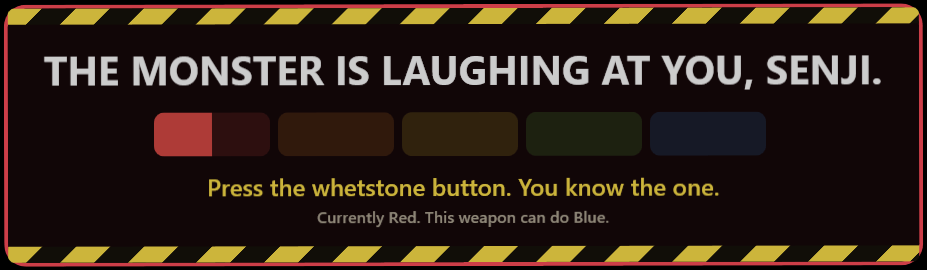
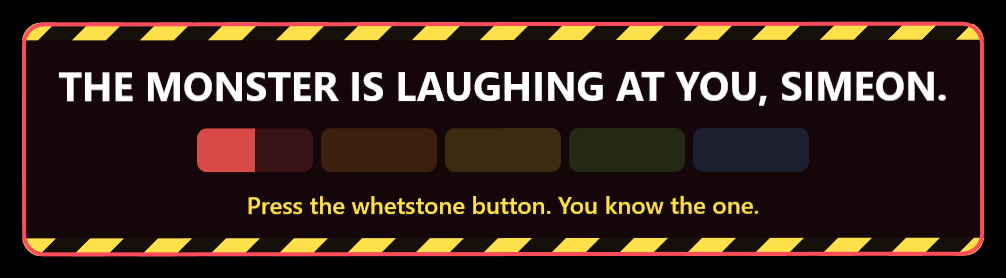
Sharpen reminder: tape under the border, centred, no detail line, Simeon in the text

diff --git a/SmartHunter/Ui/Windows/SharpenAlertWindow.xaml b/SmartHunter/Ui/Windows/SharpenAlertWindow.xaml
@@ -35,31 +35,35 @@
             </TransformGroup>
         </Grid.RenderTransform>
 
-        <Border x:Name="Card" CornerRadius="20" Background="#F2160709" BorderBrush="{StaticResource B_Danger}" BorderThickness="4" MinWidth="820" ClipToBounds="True" behaviors:RoundClip.Radius="20">
-            <StackPanel>
-                <Rectangle Height="16" Fill="{StaticResource B_Tape}" />
-                <StackPanel Margin="36 18 36 18">
-                    <controls:SharpText Text="{Binding Headline}" Style="{StaticResource T_Body}" FontSize="40" FontWeight="Bold" Foreground="White" HorizontalAlignment="Center" />
+        <Grid x:Name="Card" MinWidth="820">
+            <!--The tape runs to the card's edge under a rounded clip, and the red outline is drawn on top of it: a border
+                around the clipped content left the tape's square corners poking out past the border's inner curve-->
+            <Border CornerRadius="20" Background="#F2160709" behaviors:RoundClip.Radius="20">
+                <StackPanel>
+                    <Rectangle Height="18" Fill="{StaticResource B_Tape}" />
+                    <StackPanel Margin="36 18 36 18">
+                        <controls:SharpText Text="{Binding Headline}" TextAlignment="Center" Style="{StaticResource T_Body}" FontSize="40" FontWeight="Bold" Foreground="White" />
 
-                    <ItemsControl ItemsSource="{Binding Bar.Pips}" HorizontalAlignment="Center" Margin="0 16 0 0">
-                        <ItemsControl.ItemsPanel>
-                            <ItemsPanelTemplate><StackPanel Orientation="Horizontal" /></ItemsPanelTemplate>
-                        </ItemsControl.ItemsPanel>
-                        <ItemsControl.ItemTemplate>
-                            <DataTemplate>
-                                <Grid Width="116" Height="44" Margin="0 0 8 0" behaviors:RoundClip.Radius="10">
-                                    <Rectangle Fill="{Binding Brush}" Opacity="0.18" />
-                                    <Rectangle Fill="{Binding Brush}" behaviors:SmoothBar.Fraction="{Binding Fill}" />
-                                </Grid>
-                            </DataTemplate>
-                        </ItemsControl.ItemTemplate>
-                    </ItemsControl>
+                        <ItemsControl ItemsSource="{Binding Bar.Pips}" HorizontalAlignment="Center" Margin="0 16 0 0">
+                            <ItemsControl.ItemsPanel>
+                                <ItemsPanelTemplate><StackPanel Orientation="Horizontal" /></ItemsPanelTemplate>
+                            </ItemsControl.ItemsPanel>
+                            <ItemsControl.ItemTemplate>
+                                <DataTemplate>
+                                    <Grid Width="116" Height="44" Margin="4 0 4 0" behaviors:RoundClip.Radius="10">
+                                        <Rectangle Fill="{Binding Brush}" Opacity="0.18" />
+                                        <Rectangle Fill="{Binding Brush}" behaviors:SmoothBar.Fraction="{Binding Fill}" />
+                                    </Grid>
+                                </DataTemplate>
+                            </ItemsControl.ItemTemplate>
+                        </ItemsControl>
 
-                    <controls:SharpText Text="{Binding Escalated}" Style="{StaticResource T_Body}" FontSize="24" FontWeight="SemiBold" Foreground="#FFE24A" HorizontalAlignment="Center" Margin="0 14 0 0" />
-                    <controls:SharpText Text="{Binding Detail}" Style="{StaticResource T_Muted}" FontSize="16" HorizontalAlignment="Center" Margin="0 4 0 0" />
+                        <controls:SharpText Text="{Binding Escalated}" TextAlignment="Center" Style="{StaticResource T_Body}" FontSize="24" FontWeight="SemiBold" Foreground="#FFE24A" Margin="0 16 0 0" />
+                    </StackPanel>
+                    <Rectangle Height="18" Fill="{StaticResource B_Tape}" />
                 </StackPanel>
-                <Rectangle Height="16" Fill="{StaticResource B_Tape}" />
-            </StackPanel>
-        </Border>
+            </Border>
+            <Border CornerRadius="20" BorderBrush="{StaticResource B_Danger}" BorderThickness="4" IsHitTestVisible="False" />
+        </Grid>
     </Grid>
 </Window>

diff --git a/SmartHunter/Game/Data/SharpenAlert.cs b/SmartHunter/Game/Data/SharpenAlert.cs
@@ -3,8 +3,8 @@ using SmartHunter.Core.Data;
 
 namespace SmartHunter.Game.Data
 {
-    // A friend's weapon kept running at red and orange mid-hunt, and the small bar was never enough. For the hunter named
-    // Senji, sharpness that is far below what the weapon reaches puts a huge bar and a roast at the top of the screen
+    // A friend's weapon kept running at red and orange mid-hunt, and the small bar was never enough. For the hunter whose
+    // character is named Senji (the roasts call him Simeon, his real name), sharpness that is far below what the weapon reaches puts a huge bar and a roast at the top of the screen
     // (SharpenAlertWindow) until he sharpens. It's a gag: impossible to miss, impossible to sit through, and it gets
     // meaner the longer he ignores it, while the click-through window leaves the game playable underneath.
     // Hardcoded on purpose; it only ever looks at the local player's own name.
@@ -34,14 +34,14 @@ namespace SmartHunter.Game.Data
         public const int SecondsPerStage = 20;
         static readonly string[] Headlines =
         {
-            "SENJI. YOUR WEAPON IS A SPOON.",
-            "THE MONSTER IS LAUGHING AT YOU, SENJI.",
-            "SENJI'S WEAPON HAS FILED A COMPLAINT.",
-            "THIS IS AN INTERVENTION, SENJI.",
-            "THAT'S NOT A WEAPON, SENJI, THAT'S A VIBE.",
-            "WE CAN HEAR THE BONK FROM HERE, SENJI.",
-            "BREAKING NEWS: SENJI FORGETS WHETSTONE (AGAIN).",
-            "SENJI, YOU ARE HITTING IT WITH A BUTTER KNIFE.",
+            "SIMEON. YOUR WEAPON IS A SPOON.",
+            "THE MONSTER IS LAUGHING AT YOU, SIMEON.",
+            "SIMEON'S WEAPON HAS FILED A COMPLAINT.",
+            "THIS IS AN INTERVENTION, SIMEON.",
+            "THAT'S NOT A WEAPON, SIMEON, THAT'S A VIBE.",
+            "WE CAN HEAR THE BONK FROM HERE, SIMEON.",
+            "BREAKING NEWS: SIMEON FORGETS WHETSTONE (AGAIN).",
+            "SIMEON, YOU ARE HITTING IT WITH A BUTTER KNIFE.",
         };
         static readonly string[] Escalation =
         {
@@ -49,7 +49,7 @@ namespace SmartHunter.Game.Data
             "Still going? The bar says no.",
             "Your teammates can see this bar too, you know.",
             "The monster sent a thank-you note.",
-            "Senji. Please. The bar is begging.",
+            "Simeon. Please. The bar is begging.",
             "At this point it's a bit. Sharpen anyway.",
         };
 
@@ -81,14 +81,6 @@ namespace SmartHunter.Game.Data
             private set { SetProperty(ref m_Escalation, value); }
         }
 
-        // What it actually is, in plain words, under the joke
-        string m_Detail = "";
-        public string Detail
-        {
-            get { return m_Detail; }
-            private set { SetProperty(ref m_Detail, value); }
-        }
-
         DateTime m_StartedAt;
         int m_Offset;
         static readonly Random s_Random = new Random();
@@ -112,7 +104,6 @@ namespace SmartHunter.Game.Data
                 int stage = StageOf(DateTime.Now - m_StartedAt);
                 Headline = HeadlineFor(stage, m_Offset);
                 Escalated = EscalationFor(stage);
-                Detail = $"Currently {Sharpness.NameOf(local.LevelIndex)}. This weapon can do {Sharpness.NameOf(local.TopIndex)}.";
                 Bar.Apply(SharpnessShare.Pack(true, local.TopIndex, local.LevelIndex, local.Percent, local.HitsLeft));
             }
             IsActive = show;

diff --git a/README.md b/README.md
@@ -85,9 +85,9 @@ To remove it, uninstall it like any app: **Settings > Apps**, or Control Panel. 
 
 <img src="docs/sharpen-alert.png" alt="The sharpen reminder" width="560"/>
 
-A gag, hardcoded for one hunter: if your character is named Senji and the weapon is way too dull for a hunt, a huge hazard-taped bar
-takes over the top of the screen and roasts you, a bit meaner every 20 seconds, until you sharpen. It doesn't take the mouse, so the game
-stays playable underneath.
+A gag, hardcoded for one hunter, Simeon: when his weapon is way too dull for a hunt, a huge hazard-taped bar takes over the top of his
+screen and roasts him, a bit meaner every 20 seconds, until he sharpens. It doesn't take the mouse, so the game stays playable
+underneath.
 
 ### Hunt recap
 
